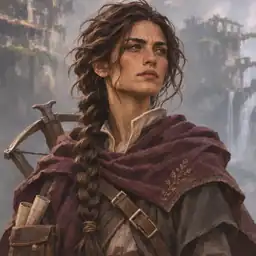
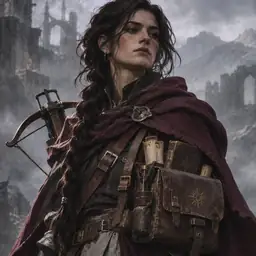
NADAPORTRAIT002: заменить игровой портрет Нады на художественную v2 (#270)
* art(nada): replace approved v1 portrait with differentiated v2 UI WebP

* art(nada-v2): cache-bust new portrait, bump game version game.js

* art(nada-v2): cache-bust new portrait, bump game version tests/nada-roster-preview.test.js

* art(nada-v2): cache-bust new portrait, bump game version package.json

* art(nada-v2): cache-bust new portrait, bump game version index.html

* art(nada-v2): record approved portrait metadata, QA and source status

* art(nada-v2): record approved portrait metadata, QA and source status

diff --git a/index.html b/index.html
@@ -4,8 +4,8 @@
   <meta charset="utf-8">
   <meta name="viewport" content="width=device-width,initial-scale=1,viewport-fit=cover">
   <title>Пепельный престол — прототип</title>
-  <link rel="stylesheet" href="styles.css?v=0.3.125">
-  <link rel="stylesheet" href="hero-card.css?v=0.3.125">
+  <link rel="stylesheet" href="styles.css?v=0.3.126">
+  <link rel="stylesheet" href="hero-card.css?v=0.3.126">
   <!-- Fixed Babylon.js release: no unversioned CDN updates during prototype development. -->
   <script src="https://cdn.babylonjs.com/v9.33.2/babylon.js"></script>
 </head>
@@ -720,7 +720,7 @@
         <button type="button" class="primary" id="lockedHeroUnlock">Открыть за 10 осколков</button>
       </div>
     </dialog>
-    <footer><span id="buildVersion">Прототип · v0.3.125 · UIHUD001 + OPSHELP + RENPLAY + REN3D003 + ENV010 + ENV017-MASSING + ENV022-DEFAULT + RENGLB003 + RENLOAD005 + RENAN008 + RENCARD009 + MELEE009 + RENIDLE010 + RENPOSE011 + RENSTANCE012 + RENSTANCE013 + RENRETARGET014 + RENIDLE015 + RENPOSE016 + RENMESH017 + RENPACE018 + RENQUEUE019 + HEROCARD001 + RENMOVE020+ RENCHOR021 + RENBYTES001 + RENBYTES002 + NADAART001 + NADAPLAY001</span><span>Пепельный престол</span></footer>
+    <footer><span id="buildVersion">Прототип · v0.3.126 · UIHUD001 + OPSHELP + RENPLAY + REN3D003 + ENV010 + ENV017-MASSING + ENV022-DEFAULT + RENGLB003 + RENLOAD005 + RENAN008 + RENCARD009 + MELEE009 + RENIDLE010 + RENPOSE011 + RENSTANCE012 + RENSTANCE013 + RENRETARGET014 + RENIDLE015 + RENPOSE016 + RENMESH017 + RENPACE018 + RENQUEUE019 + HEROCARD001 + RENMOVE020+ RENCHOR021 + RENBYTES001 + RENBYTES002 + NADAART001 + NADAPLAY001 + NADAPORTRAIT002</span><span>Пепельный престол</span></footer>
   </main>
   <aside id="orientationPrompt" class="orientation-prompt" aria-label="Поверните устройство">
     <div class="orientation-prompt__content">
@@ -754,9 +754,9 @@
   <script src="operation-core.js"></script>
   <script src="signal-operation-core.js"></script>
   <script src="battle-speed.js"></script>
-  <script src="animation-profiles.js?v=0.3.125"></script>
-  <script src="ren-choreography.js?v=0.3.125"></script>
-  <script src="battle-animation.js?v=0.3.125"></script>
+  <script src="animation-profiles.js?v=0.3.126"></script>
+  <script src="ren-choreography.js?v=0.3.126"></script>
+  <script src="battle-animation.js?v=0.3.126"></script>
   <script src="player-profile-core.js"></script>
   <script src="hero-profile-data.js"></script>
   <script src="story-trial-data.js"></script>
@@ -765,13 +765,13 @@
   <script src="combat-environment-010.js"></script>
   <script src="combat-environment-017.js"></script>\n  <script src="combat-visual-007.js"></script>
   <script src="ren-visual-model.js"></script>
-  <script src="ren-glb-runtime.js?v=0.3.125"></script>
-  <script src="ren-idle-kinemiq.js?v=0.3.125"></script>
-  <script src="ren-kinemiq-retarget-data.js?v=0.3.125"></script>
-  <script src="ren-motion-retarget.js?v=0.3.125"></script>
-  <script src="ren-card-pose.js?v=0.3.125"></script>
-  <script src="ren-card-3d.js?v=0.3.125"></script>
-  <script src="game.js?v=0.3.125"></script>
-  <script src="hero-card-ui.js?v=0.3.125"></script>
+  <script src="ren-glb-runtime.js?v=0.3.126"></script>
+  <script src="ren-idle-kinemiq.js?v=0.3.126"></script>
+  <script src="ren-kinemiq-retarget-data.js?v=0.3.126"></script>
+  <script src="ren-motion-retarget.js?v=0.3.126"></script>
+  <script src="ren-card-pose.js?v=0.3.126"></script>
+  <script src="ren-card-3d.js?v=0.3.126"></script>
+  <script src="game.js?v=0.3.126"></script>
+  <script src="hero-card-ui.js?v=0.3.126"></script>
 </body>
 </html>

diff --git a/game.js b/game.js
@@ -777,7 +777,7 @@ function showHeroBiography(hero){
  // Preserve Ren's established biography visibility; Nada is an independent preview.
  if(sketch&&hero.id==="nada"){
   sketch.hidden=false;
-  sketch.src="assets/nada-portrait-ui.webp";
+  sketch.src="assets/nada-portrait-ui.webp?v=2";
   sketch.alt="Нада — утверждённый живописный портрет";
  }else if(sketch&&(hero.id==="ren"||hero.id==="trial-ren")){
   sketch.src="assets/ren-portrait-ui.webp";
@@ -1591,7 +1591,7 @@ function renderHeroes(){
   const safeAmount=Math.max(0,Number(amount)||0),safeCost=Math.max(1,Number(cost)||10);
   const progressPercent=Math.min(100,Math.round(safeAmount/safeCost*100));
   const portraitAvatar=owned&&h.id==="ren"?'<img class="ren-collection-portrait" src="assets/ren-portrait-ui.webp" width="220" height="275" loading="lazy" decoding="async" alt="">':
-   owned&&h.id==="nada"?'<img class="nada-collection-portrait" src="assets/nada-portrait-ui.webp" width="256" height="256" loading="lazy" decoding="async" alt="">':owned?h.glyph:"🔒";
+   owned&&h.id==="nada"?'<img class="nada-collection-portrait" src="assets/nada-portrait-ui.webp?v=2" width="256" height="256" loading="lazy" decoding="async" alt="">':owned?h.glyph:"🔒";
   const starInfo=owned&&rank!==null?'<span class="hero-star-summary" aria-label="Ранг '+rank+' из 7">'+starGlyphs(rank)+'</span>':"";
   const name=owned?h.name:"Неизвестный герой";
   const levelLine=owned?"Ур. "+h.level+" · "+h.role:"Условия получения";
@@ -1837,7 +1837,7 @@ function renderHeroDetail(){
  if(renPortrait){
   renPortrait.hidden=!showRenPortrait;
   if(showNadaPortrait)renPortrait.hidden=false;
-  renPortrait.src=showNadaPortrait?"assets/nada-portrait-ui.webp":"assets/ren-portrait-ui.webp";
+  renPortrait.src=showNadaPortrait?"assets/nada-portrait-ui.webp?v=2":"assets/ren-portrait-ui.webp";
   renPortrait.alt=showNadaPortrait?"Нада — утверждённый портрет исследовательницы":"Рен Терен — портрет проводника Садов над пропастью";
  }
  if(heroStage){

diff --git a/tests/nada-portrait-002.test.js b/tests/nada-portrait-002.test.js
@@ -1,0 +1,27 @@
+"use strict";
+const test=require("node:test"),assert=require("node:assert/strict");
+const fs=require("node:fs"),path=require("node:path"),crypto=require("node:crypto");
+const root=path.join(__dirname,"..");
+const read=f=>fs.readFileSync(path.join(root,f),"utf8");
+test("NADAPORTRAIT002 uses exact approved lightweight replacement",()=>{
+ const data=fs.readFileSync(path.join(root,"assets/nada-portrait-ui.webp"));
+ assert.equal(data.toString("ascii",0,4),"RIFF");
+ assert.equal(data.toString("ascii",8,12),"WEBP");
+ assert.equal(data.length,7014);
+ assert.equal(crypto.createHash("sha256").update(data).digest("hex"),
[1 lines of base64/hex data omitted]
+ assert.ok(data.length<8080,"Nada remains smaller than Ren UI portrait");
+});
+test("all three Nada UI paths cache-bust the image without changing Ren's",()=>{
+ const js=read("game.js");
+ assert.equal((js.match(/assets\/nada-portrait-ui\.webp\?v=2/g)||[]).length,3);
+ assert.match(js,/assets\/ren-portrait-ui\.webp/);
+ assert.match(js,/showNadaPortrait=hero\.id==="nada"/);
+});
+test("versioned page shell and portrait documentation stay paired",()=>{
+ const html=read("index.html"),pkg=JSON.parse(read("package.json"));
+ assert.equal(pkg.version,"0.3.126");
+ assert.match(html,/v0\.3\.126 · UIHUD001/);
+ assert.match(html,/NADAART001 \+ NADAPLAY001 \+ NADAPORTRAIT002/);
+ assert.match(read("docs/NADA_PORTRAIT_002.md"),/Оригинал PNG пока НЕ загружен/);
+});

diff --git a/tests/nada-roster-preview.test.js b/tests/nada-roster-preview.test.js
@@ -33,7 +33,7 @@ test("approved artwork is now a real owned roster card and 2D hero dossier",()=>
  assert.match(roster,/h\.id==="nada"/);
  assert.match(roster,/nada-collection-portrait/);
  assert.match(game,/showNadaPortrait=hero\.id==="nada"/);
- assert.match(game,/renPortrait\.src=showNadaPortrait\?"assets\/nada-portrait-ui\.webp"/);
+ assert.match(game,/renPortrait\.src=showNadaPortrait\?"assets\/nada-portrait-ui\.webp\?v=2"/);
  assert.match(root("ren-card-3d.js"),/portrait\.hidden=heroId!=="nada"/);
  assert.equal(fs.existsSync(path.join(__dirname,"..","assets","nada-portrait-ui.webp")),true);
  assert.equal(profiles.get("ren")?.name,"Рен Терен");
@@ -53,7 +53,7 @@ test("temporary physical support abilities are distinct and can level",()=>{
 });
 test("new build still preserves the original UIHUD version prefix",()=>{
  const html=root("index.html"),pkg=JSON.parse(root("package.json"));
- assert.equal(pkg.version,"0.3.125");
- assert.match(html,/v0\.3\.125 · UIHUD001/);
- assert.match(html,/NADAART001 \+ NADAPLAY001/);
+ assert.equal(pkg.version,"0.3.126");
+ assert.match(html,/v0\.3\.126 · UIHUD001/);
+ assert.match(html,/NADAART001 \+ NADAPLAY001 \+ NADAPORTRAIT002/);
 });

diff --git a/docs/NADA_PORTRAIT_002.md b/docs/NADA_PORTRAIT_002.md
@@ -1,0 +1,36 @@
+# NADAPORTRAIT002 — портрет Нады, художественный образ v2
+
+**Дата:** 12 ноября 2026. **Статус:** [В РАЗРАБОТКЕ] до приёмки PR; портретное художественное направление v2 предварительно принято владельцем («норм»). **Никакого нового литературного канона не создаётся.**
+
+## Зачем меняем
+
+Владелец отметил избыточное сходство Рена и Нады. После утверждения художественного character sheet v2 был создан новый игровой портрет: Нада отличается более собранным силуэтом, длинной косой, сливово-бордовой одеждой и **структурированной сумкой с документами**. Лёгкий арбалет находится на втором плане. Сохраняются живописная полуреалистичная стилистика, туманная каменная архитектура и принадлежность к одному игровому миру.
+
+**Важно:** решение об облике персонажа и художественном портрете не вводит в литературу новые реликвии, символы, названия, магию, точный возраст или историю владения арбалетом. Присутствующие на сумке знаки, приборы и крепления не подтверждены как каноническая геральдика или материальная культура.
+
+## Исходники и сборка
+
[1 lines of base64/hex data omitted]
+- **Оригинал PNG пока НЕ загружен в GitHub**: его нужно архивировать отдельно, не считать манифест резервной копией бинарного оригинала.
[1 lines of base64/hex data omitted]
+- Старая версия портрета была 5956 байт, новая **на 1058 байт тяжелее**. По-прежнему легче текущего портрета Рена (8080 байт).
+- Файл в GitHub заменён по прежнему пути, а обращения к нему используют `?v=2` для устранения устаревшего изображения в кэше Safari.
+
+## Скоуп и проверки
+
+- Меняем только portrait WebP, URL портрета в трёх местах `game.js`, версии `package.json` и `index.html`, тесты и эту документацию.
+- Нельзя менять способности, HP/ATK, сохранения, отряд, модель Рена, Canvas/WebGL и шаблоны CSS.
+- `tests/nada-portrait-002.test.js` проверяет RIFF/WEBP, размер, sha256, все три варианта использования портрета и маркеры сборки.
+- Сохранены исходная иллюстрация v1 и её документация; v2 заменяет **только текущий отображаемый портрет**.
+- Проверки в PR: полный Node suite, browser smoke и WebGL smoke. Реальная проверка физического iPhone Safari — отдельно.
+
+## Мобильная приёмка
+
+1. Убедиться, что в футере `v0.3.126 · ... + NADAPORTRAIT002`; если нет, сначала очистить кэш и проверить GitHub Pages.
+2. Коллекция → Нада: проверить новый портрет и отличие от Рена.
+3. Карточка Нады → досье: тот же портрет; возврат, закрытие диалога, переключение на Рена.
+4. Старт/конец боя, повтор, 2D-портрет после возврата; отсутствие зависаний, горизонтального переполнения, ошибок safe-area в landscape.
+
+## Следующий шаг
+
+Отдельно архивировать полноразмерный PNG в подходящем каталоге; не выдавать технический WebP 256px за мастер. После разрешённого слияния обновить `docs/PROJECT_STATUS.md` фактическим номером PR и результатами верификации.
